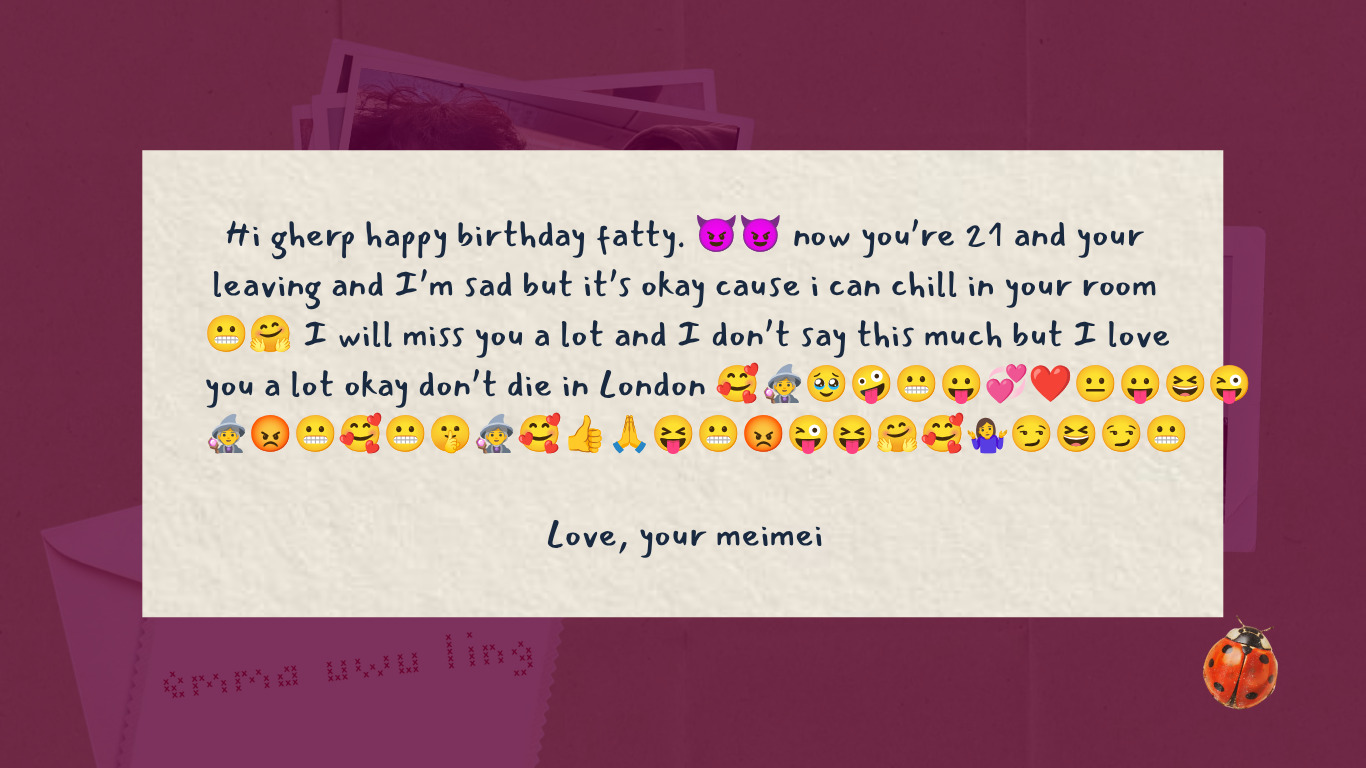
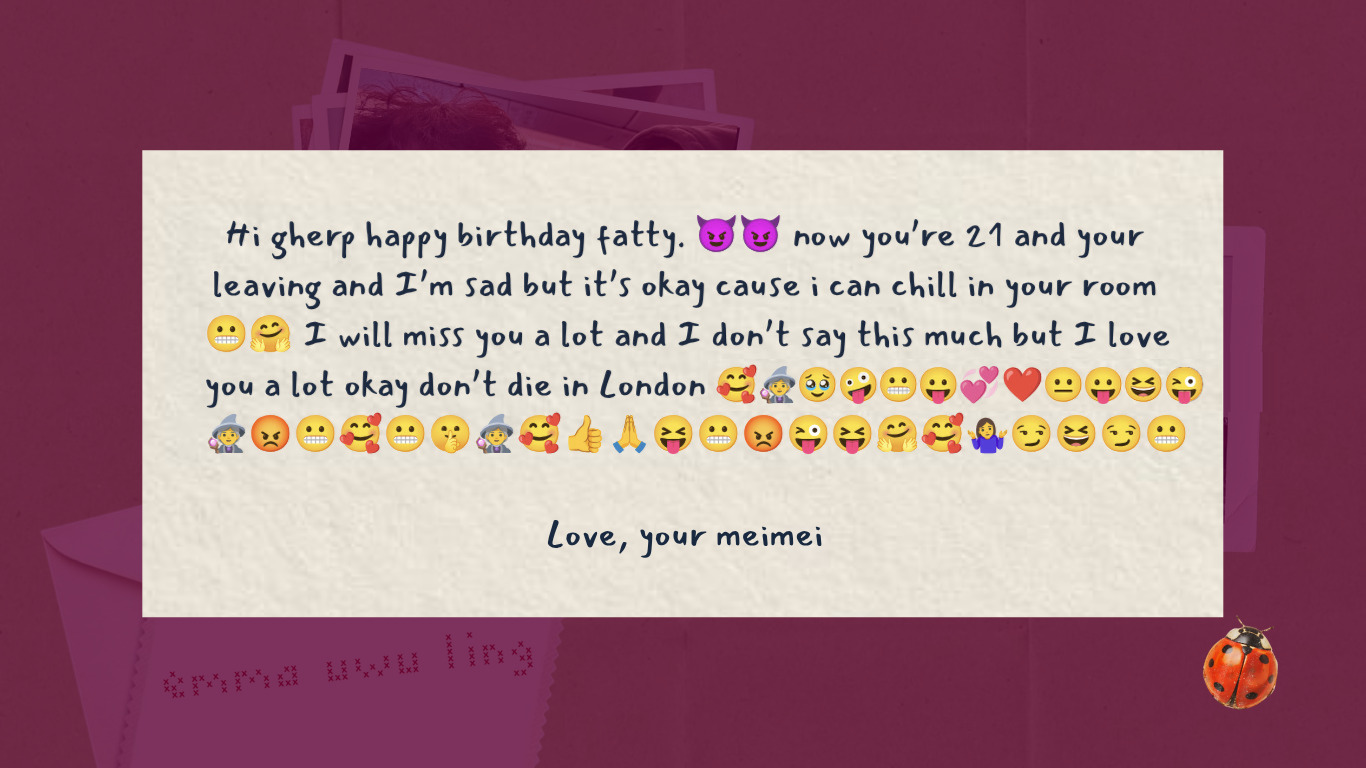
updated

Changed region(s): [[0.1537, 0.4688, 0.9224, 0.5938], [0.4919, 0.2812, 0.5842, 0.3438], [0.1537, 0.4062, 0.2152, 0.4688]]

diff --git a/data.js b/data.js
@@ -1,4 +1,4 @@
-const SPOTS = {"1":[{"r":[1100,470,175,180],"k":"belly"}],"2":[{"r":[0,0,1366,768],"k":"any"}],"3":[{"r":[1146,550,103,103],"k":"ladybug"}],"4":[{"r":[423,352,477,383],"k":"envelope"}],"5":[{"r":[1113,575,98,98],"k":"ladybug"}],"6":[{"r":[884,349,442,360],"k":"envelope"}],"7":[{"r":[1205,220,99,99],"k":"ladybug"}],"8":[{"r":[488,324,401,326],"k":"envelope"}],"9":[{"r":[1170,580,99,99],"k":"ladybug"}],"10":[{"r":[692,276,403,324],"k":"envelope"}],"11":[{"r":[1160,602,106,106],"k":"ladybug"}],"12":[{"r":[886,132,468,324],"k":"envelope"}],"13":[{"r":[1186,591,98,98],"k":"ladybug"}],"14":[{"r":[884,349,442,360],"k":"envelope"}],"15":[{"r":[1211,638,98,98],"k":"ladybug"}],"16":[{"r":[692,202,462,370],"k":"envelope"}],"17":[{"r":[1152,580,121,121],"k":"ladybug"}],"18":[{"r":[668,367,422,338],"k":"envelope"}],"19":[{"r":[1160,602,106,106],"k":"ladybug"}],"20":[{"r":[326,140,708,500],"k":"envelope"}],"21":[{"r":[1153,550,102,102],"k":"ladybug"}],"22":[{"r":[813,440,372,302],"k":"envelope"}],"23":[{"r":[1199,589,109,109],"k":"ladybug"}],"24":[{"r":[886,132,468,324],"k":"envelope"}],"25":[{"r":[1232,635,91,91],"k":"ladybug"}],"26":[{"r":[643,109,483,387],"k":"envelope"}],"27":[{"r":[1153,583,121,121],"k":"ladybug"}],"28":[{"r":[625,354,498,383],"k":"envelope"}],"29":[{"r":[1113,576,98,98],"k":"ladybug"}],"30":[{"r":[884,349,442,360],"k":"envelope"}],"31":[{"r":[1260,670,98,98],"k":"ladybug"}],"32":[{"r":[326,140,708,500],"k":"envelope"}],"33":[{"r":[1145,550,103,103],"k":"ladybug"}],"34":[{"r":[432,382,436,346],"k":"envelope"}],"35":[{"r":[1160,602,106,106],"k":"ladybug"}],"36":[{"r":[1007,502,359,266],"k":"envelope"}],"37":[{"r":[1150,588,98,98],"k":"ladybug"}],"38":[{"r":[888,453,371,301],"k":"envelope"}],"39":[{"r":[1226,217,98,98],"k":"ladybug"}],"40":[{"r":[326,140,708,500],"k":"envelope"}],"41":[{"r":[1146,550,103,103],"k":"ladybug"}],"42":[{"r":[769,461,330,265],"k":"envelope"}],"43":[{"r":[1160,598,106,106],"k":"ladybug"}],"44":[{"r":[855,404,458,330],"k":"envelope"}],"45":[{"r":[1203,220,99,99],"k":"ladybug"}],"46":[{"r":[326,140,708,500],"k":"envelope"}],"47":[{"r":[1146,550,103,103],"k":"ladybug"}],"48":[{"r":[672,129,483,387],"k":"envelope"}],"49":[{"r":[1150,575,121,121],"k":"ladybug"}],"50":[{"r":[1030,501,296,238],"k":"envelope"}],"51":[{"r":[1187,639,108,108],"k":"ladybug"}],"52":[{"r":[888,453,371,301],"k":"envelope"}],"53":[{"r":[1219,204,119,119],"k":"ladybug"}],"54":[{"r":[886,133,468,323],"k":"envelope"}],"55":[{"r":[1145,591,99,99],"k":"ladybug"}],"56":[{"r":[775,337,442,359],"k":"envelope"}],"57":[{"r":[1203,217,99,99],"k":"ladybug"}],"58":[{"r":[960,445,348,279],"k":"envelope"}],"59":[{"r":[1126,568,106,106],"k":"ladybug"}],"60":[{"r":[672,129,483,387],"k":"envelope"}],"61":[{"r":[1150,575,121,121],"k":"ladybug"}],"62":[{"r":[836,399,371,349],"k":"envelope"}],"63":[{"r":[1256,440,104,104],"k":"ladybug"}],"64":[{"r":[326,140,708,500],"k":"envelope"}],"65":[{"r":[1146,550,103,103],"k":"ladybug"}],"66":[{"r":[836,447,371,301],"k":"envelope"}],"67":[{"r":[1229,663,94,94],"k":"ladybug"}],"68":[{"r":[695,474,482,294],"k":"envelope"}],"69":[{"r":[1154,586,109,109],"k":"ladybug"}],"70":[{"r":[1118,660,113,108],"k":"ladybug"}],"71":[{"r":[771,454,372,299],"k":"envelope"}],"72":[{"r":[1154,586,109,109],"k":"ladybug"}],"73":[{"r":[1239,644,121,121],"k":"ladybug"}],"74":[{"r":[885,133,469,324],"k":"envelope"}],"75":[{"r":[1154,586,109,109],"k":"ladybug"}],"76":[{"r":[1114,565,120,120],"k":"ladybug"}],"77":[{"r":[1134,596,120,126],"k":"ladybug"}],"78":[{"r":[707,497,631,271],"k":"envelope"}],"79":[{"r":[1202,151,111,111],"k":"ladybug"}],"80":[{"r":[342,447,486,321],"k":"envelope"}],"81":[{"r":[1188,618,104,104],"k":"ladybug"}],"82":[{"r":[789,265,549,446],"k":"envelope"}],"83":[{"r":[1124,569,128,128],"k":"ladybug"}],"84":[{"r":[837,462,461,306],"k":"envelope"}],"85":[{"r":[1238,551,94,94],"k":"ladybug"}],"86":[{"r":[250,436,158,206],"k":"letter"}],"87":[{"r":[1263,678,94,90],"k":"ladybug"}],"88":[]};
+const SPOTS = {"1":[{"r":[1100,470,175,180],"k":"belly"}],"2":[{"r":[0,0,1366,768],"k":"any"}],"3":[{"r":[1146,550,103,103],"k":"ladybug"}],"4":[{"r":[423,352,477,383],"k":"envelope"}],"5":[{"r":[1113,575,98,98],"k":"ladybug"}],"6":[{"r":[884,349,442,360],"k":"envelope"}],"7":[{"r":[1205,220,99,99],"k":"ladybug"}],"8":[{"r":[488,324,401,326],"k":"envelope"}],"9":[{"r":[1170,580,99,99],"k":"ladybug"}],"10":[{"r":[692,276,403,324],"k":"envelope"}],"11":[{"r":[1160,602,106,106],"k":"ladybug"}],"12":[{"r":[886,132,468,324],"k":"envelope"}],"13":[{"r":[1186,591,98,98],"k":"ladybug"}],"14":[{"r":[884,349,442,360],"k":"envelope"}],"15":[{"r":[1211,638,98,98],"k":"ladybug"}],"16":[{"r":[692,202,462,370],"k":"envelope"}],"17":[{"r":[1152,580,121,121],"k":"ladybug"}],"18":[{"r":[668,367,422,338],"k":"envelope"}],"19":[{"r":[1160,602,106,106],"k":"ladybug"}],"20":[{"r":[326,140,708,500],"k":"envelope"}],"21":[{"r":[1153,550,102,102],"k":"ladybug"}],"22":[{"r":[813,440,372,302],"k":"envelope"}],"23":[{"r":[1199,589,109,109],"k":"ladybug"}],"24":[{"r":[886,132,468,324],"k":"envelope"}],"25":[{"r":[1232,635,91,91],"k":"ladybug"}],"26":[{"r":[643,109,483,387],"k":"envelope"}],"27":[{"r":[1153,583,121,121],"k":"ladybug"}],"28":[{"r":[625,354,498,383],"k":"envelope"}],"29":[{"r":[1113,576,98,98],"k":"ladybug"}],"30":[{"r":[884,349,442,360],"k":"envelope"}],"31":[{"r":[1260,670,98,98],"k":"ladybug"}],"32":[{"r":[326,140,708,500],"k":"envelope"}],"33":[{"r":[1145,550,103,103],"k":"ladybug"}],"34":[{"r":[432,382,436,346],"k":"envelope"}],"35":[{"r":[1160,602,106,106],"k":"ladybug"}],"36":[{"r":[1007,502,359,266],"k":"envelope"}],"37":[{"r":[1150,588,98,98],"k":"ladybug"}],"38":[{"r":[888,453,371,301],"k":"envelope"}],"39":[{"r":[1226,217,98,98],"k":"ladybug"}],"40":[{"r":[326,140,708,500],"k":"envelope"}],"41":[{"r":[1146,550,103,103],"k":"ladybug"}],"42":[{"r":[769,461,330,265],"k":"envelope"}],"43":[{"r":[1160,598,106,106],"k":"ladybug"}],"44":[{"r":[855,404,458,330],"k":"envelope"}],"45":[{"r":[1203,220,99,99],"k":"ladybug"}],"46":[{"r":[326,140,708,500],"k":"envelope"}],"47":[{"r":[1146,550,103,103],"k":"ladybug"}],"48":[{"r":[672,129,483,387],"k":"envelope"}],"49":[{"r":[1150,575,121,121],"k":"ladybug"}],"50":[{"r":[1030,501,296,238],"k":"envelope"}],"51":[{"r":[1187,639,108,108],"k":"ladybug"}],"52":[{"r":[888,453,371,301],"k":"envelope"}],"53":[{"r":[1219,204,119,119],"k":"ladybug"}],"54":[{"r":[886,133,468,323],"k":"envelope"}],"55":[{"r":[1145,591,99,99],"k":"ladybug"}],"56":[{"r":[775,337,442,359],"k":"envelope"}],"57":[{"r":[1203,217,99,99],"k":"ladybug"}],"58":[{"r":[960,445,348,279],"k":"envelope"}],"59":[{"r":[1126,568,106,106],"k":"ladybug"}],"60":[{"r":[672,129,483,387],"k":"envelope"}],"61":[{"r":[1150,575,121,121],"k":"ladybug"}],"62":[{"r":[836,399,371,349],"k":"envelope"}],"63":[{"r":[1256,440,104,104],"k":"ladybug"}],"64":[{"r":[326,140,708,500],"k":"envelope"}],"65":[{"r":[1146,550,103,103],"k":"ladybug"}],"66":[{"r":[836,447,371,301],"k":"envelope"}],"67":[{"r":[1229,663,94,94],"k":"ladybug"}],"68":[{"r":[695,474,482,294],"k":"envelope"}],"69":[{"r":[1154,586,109,109],"k":"ladybug"}],"70":[{"r":[1118,660,113,108],"k":"ladybug"}],"71":[{"r":[771,454,372,299],"k":"envelope"}],"72":[{"r":[1154,586,109,109],"k":"ladybug"}],"73":[{"r":[1239,644,121,121],"k":"ladybug"}],"74":[{"r":[885,133,469,324],"k":"envelope"}],"75":[{"r":[1154,586,109,109],"k":"ladybug"}],"76":[{"r":[1114,565,120,120],"k":"ladybug"}],"77":[{"r":[1134,596,120,126],"k":"ladybug"}],"78":[{"r":[707,497,631,271],"k":"envelope"}],"79":[{"r":[1202,151,111,111],"k":"ladybug"}],"80":[{"r":[342,447,486,321],"k":"envelope"}],"81":[{"r":[1188,618,104,104],"k":"ladybug"}],"82":[{"r":[789,265,549,446],"k":"envelope"}],"83":[{"r":[1124,569,128,128],"k":"ladybug"}],"84":[{"r":[837,462,461,306],"k":"envelope"}],"85":[{"r":[1238,551,94,94],"k":"ladybug"}],"86":[{"r":[250,436,158,206],"k":"letter"}],"87":[{"r":[1263,678,94,90],"k":"ladybug"}],"88":[{"r":[911,0,455,768],"k":"loop"}]};
 const FLAMES = [{"x":554,"y":166,"w":66,"h":96},{"x":627,"y":166,"w":66,"h":96},{"x":708,"y":172,"w":66,"h":96},{"x":770,"y":176,"w":67,"h":95}];
 const PHOTOS = [{"src":"photos/1.jpg","ar":2.1674},{"src":"photos/2.jpg","ar":0.75},{"src":"photos/3.jpg","ar":0.75},{"src":"photos/4.jpg","ar":0.75},{"src":"photos/5.jpg","ar":0.75},{"src":"photos/6.jpg","ar":1.7775},{"src":"photos/7.jpg","ar":0.75},{"src":"photos/8.jpg","ar":0.75},{"src":"photos/9.jpg","ar":0.75},{"src":"photos/10.jpg","ar":0.75}];
 const STRIP = {x:576,y:94,w:227,h:674};

diff --git a/index.html b/index.html
@@ -255,6 +255,15 @@
     return candles;
   }
 
+  function relight() {
+    if (!candles) return;
+    var fl = candles.querySelectorAll('.flame');
+    for (var i = 0; i < fl.length; i++) fl[i].classList.remove('out');
+    blown = false;
+    note.className = '';
+    caketap.className = 'zone';
+  }
+
   function blowOut() {
     if (blown || !candles) return;
     blown = true;
@@ -360,7 +369,9 @@
   var cur = 0;
 
   function go(n) {
-    if (n < 1 || n > N || n === cur) return;
+    if (n > N) n = 1;                      // the last slide loops round to the first
+    if (n < 1) n = N;                      // and going back from the first returns to it
+    if (n === cur) return;
     var prev = cur;
     cur = n;
 
@@ -377,7 +388,8 @@
     if (n === 88) {
       stage.insertBefore(buildCandles(), zoneBox);
       stage.appendChild(caketap);
-      if (!blown) listenForBlowing(); else caketap.className = 'zone';
+      relight();                           // arrive at the cake and the candles are lit again
+      listenForBlowing();
     } else {
       if (candles && candles.parentNode) candles.parentNode.removeChild(candles);
       if (caketap && caketap.parentNode) caketap.parentNode.removeChild(caketap);
@@ -387,6 +399,8 @@
 
     // keep a few neighbours warm
     preload(n + 1); preload(n + 2); preload(n - 1);
+    if (n === N) preload(1);
+    if (n === 1) preload(N);
 
     try { history.replaceState(null, '', '#' + n); } catch (e) {}
   }
@@ -399,11 +413,15 @@
   });
 
   /* --------------------------------------------------------------- startup */
+  // read the deep link before anything calls go(), which rewrites the hash
+  var wanted = parseInt((location.hash || '').slice(1), 10);
+  if (!(wanted >= 1 && wanted <= N)) wanted = 1;
+
   var first = slideEl(1);
   function start() {
     loader.className = 'gone';
     stage.className = 'ready';
-    go(1);
+    go(wanted);
     // quietly warm the rest of the deck, a few at a time
     var q = 2, inflight = 0;
     (function pump() {
@@ -420,14 +438,11 @@
   if (first.complete) start();
   else { first.addEventListener('load', start); first.addEventListener('error', start); }
 
-  // deep link, e.g. index.html#42 — handy while checking the site
-  function fromHash() {
+  // deep link, e.g. index.html#42 — also lets a refresh pick up where it left off
+  window.addEventListener('hashchange', function () {
     var h = parseInt((location.hash || '').slice(1), 10);
     if (h >= 1 && h <= N) go(h);
-  }
-  window.addEventListener('hashchange', fromHash);
-  first.addEventListener('load', fromHash);
-  if (first.complete) setTimeout(fromHash, 0);
+  });
 })();
 </script>
 </body>

diff --git a/README.md b/README.md
@@ -44,10 +44,11 @@ and the candles can be blown out by tapping them.
 | Message slides | tapping the ladybug |
 | 86 (photo strip) | tapping the letter in Snoopy's hands |
 | 87 (the letter) | tapping the ladybug |
-| 88 | blow into the mic to put the candles out |
+| 88 | blow into the mic to put the candles out — then tap the **right third** to loop back to slide 1 |
 
-Tap anywhere in the **left third** of the screen to go back a slide.
-Arrow keys work too.
+Tap anywhere in the **left third** of the screen to go back a slide. From slide 1
+that wraps round to the cake, so it loops both ways. Arrow keys work too.
+The candles relight each time you arrive back at the cake.
 
 The photo strip on slide 86 scrolls — drag it, scroll on it, or swipe it on a phone.
 It gives a small nudge when the slide opens so it's clear it moves.
